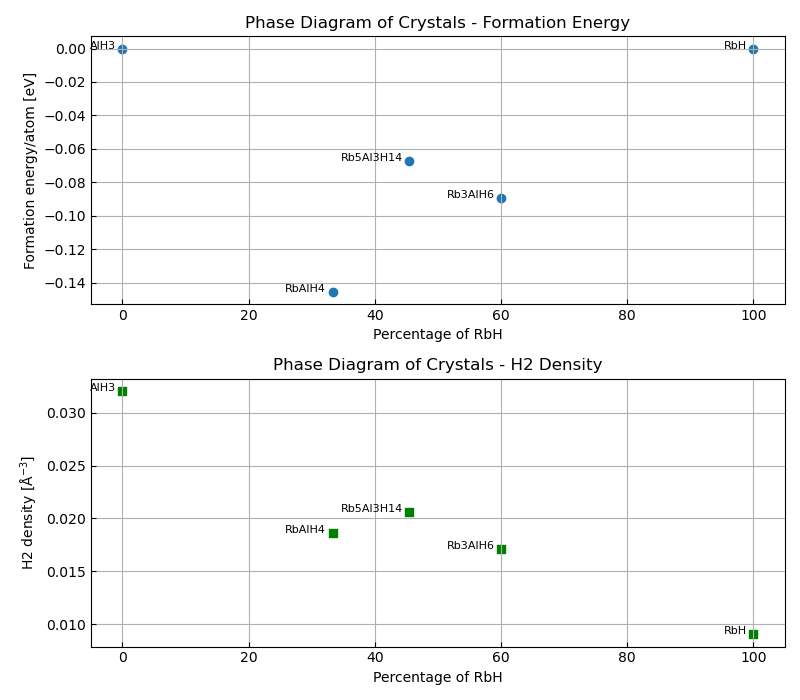
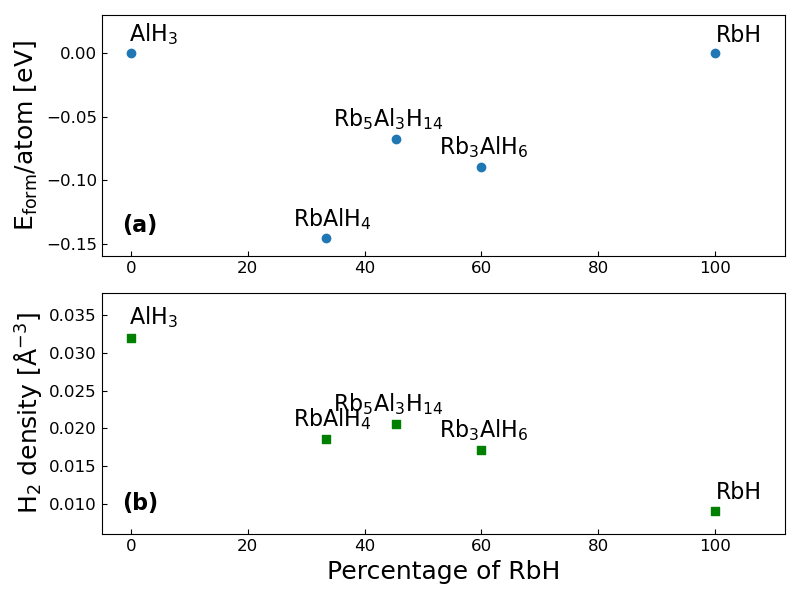
update

Changed region(s): [[0.0, 0.0, 0.9688, 0.99]]

diff --git a/Workflow/Step3/phaseDiagram.py b/Workflow/Step3/phaseDiagram.py
@@ -1,5 +1,3 @@
-import matplotlib.pyplot as plt 
-
 import matplotlib.pyplot as plt
 import numpy as np
 
@@ -10,31 +8,32 @@ import numpy as np
 # rho H2(1/Ang.^3)  0.03205 0.01860     0.02057     0.01709     0.00904
 
 # Data
-crystals = ['AlH3', 'RbAlH4', 'Rb5Al3H14', 'Rb3AlH6', 'RbH']
+crystals = ['AlH$_3$', 'RbAlH$_4$', 'Rb$_5$Al$_3$H$_{14}$', 'Rb$_3$AlH$_6$', 'RbH']
 rbh_percent = [0, 33.33, 45.45, 60, 100]
 formation_energy = [0, -0.145593986, -0.067463493, -0.089290582, 0]
 H2_density = [0.03205, 0.01860, 0.02057, 0.01709, 0.00904]
 
 plt.figure(figsize=(8, 6))
 plt.subplot(2, 1, 1)
-plt.grid(True)
 plt.scatter(rbh_percent, formation_energy)
-plt.xlabel('Percentage of RbH')
-plt.ylabel('Formation energy/atom [eV]')
-plt.title('Phase Diagram of Crystals - Formation Energy')
-plt.tick_params(direction='in')
+plt.ylabel('E$_\mathrm{form}$/atom [eV]', fontsize=18)
+plt.tick_params(direction='in', labelsize=12)
+plt.xlim(-5, 112)
+plt.ylim(-0.16, 0.03)
 for i, crystal in enumerate(crystals):
-    plt.text(rbh_percent[i]-1, formation_energy[i], crystal, fontsize=8, ha='right')
+    plt.text(rbh_percent[i]+8, formation_energy[i]+0.005, crystal, fontsize=16, ha='right', va='bottom')
+plt.text(0.03, 0.1, '(a)', fontsize=16, fontweight='bold', transform=plt.gca().transAxes)
 
 plt.subplot(2, 1, 2)
-plt.grid(True)
 plt.scatter(rbh_percent, H2_density, color='green', marker='s')
-plt.xlabel('Percentage of RbH')
-plt.ylabel('H2 density [Å$^{-3}$]')
-plt.title('Phase Diagram of Crystals - H2 Density')
-plt.tick_params(direction='in')
+plt.xlabel('Percentage of RbH', fontsize=18)
+plt.ylabel('H$_2$ density [Å$^{-3}$]', fontsize=18)
+plt.tick_params(direction='in', labelsize=12)
+plt.xlim(-5, 112)
+plt.ylim(0.006, 0.038)
 for i, crystal in enumerate(crystals):
-    plt.text(rbh_percent[i]-1, H2_density[i], crystal, fontsize=8, ha='right')
+    plt.text(rbh_percent[i]+8, H2_density[i]+0.001, crystal, fontsize=16, ha='right', va='bottom')
+plt.text(0.03, 0.1, '(b)', fontsize=16, fontweight='bold', transform=plt.gca().transAxes)
 
 plt.tight_layout()
 plt.savefig('phasediaRbH.png')
